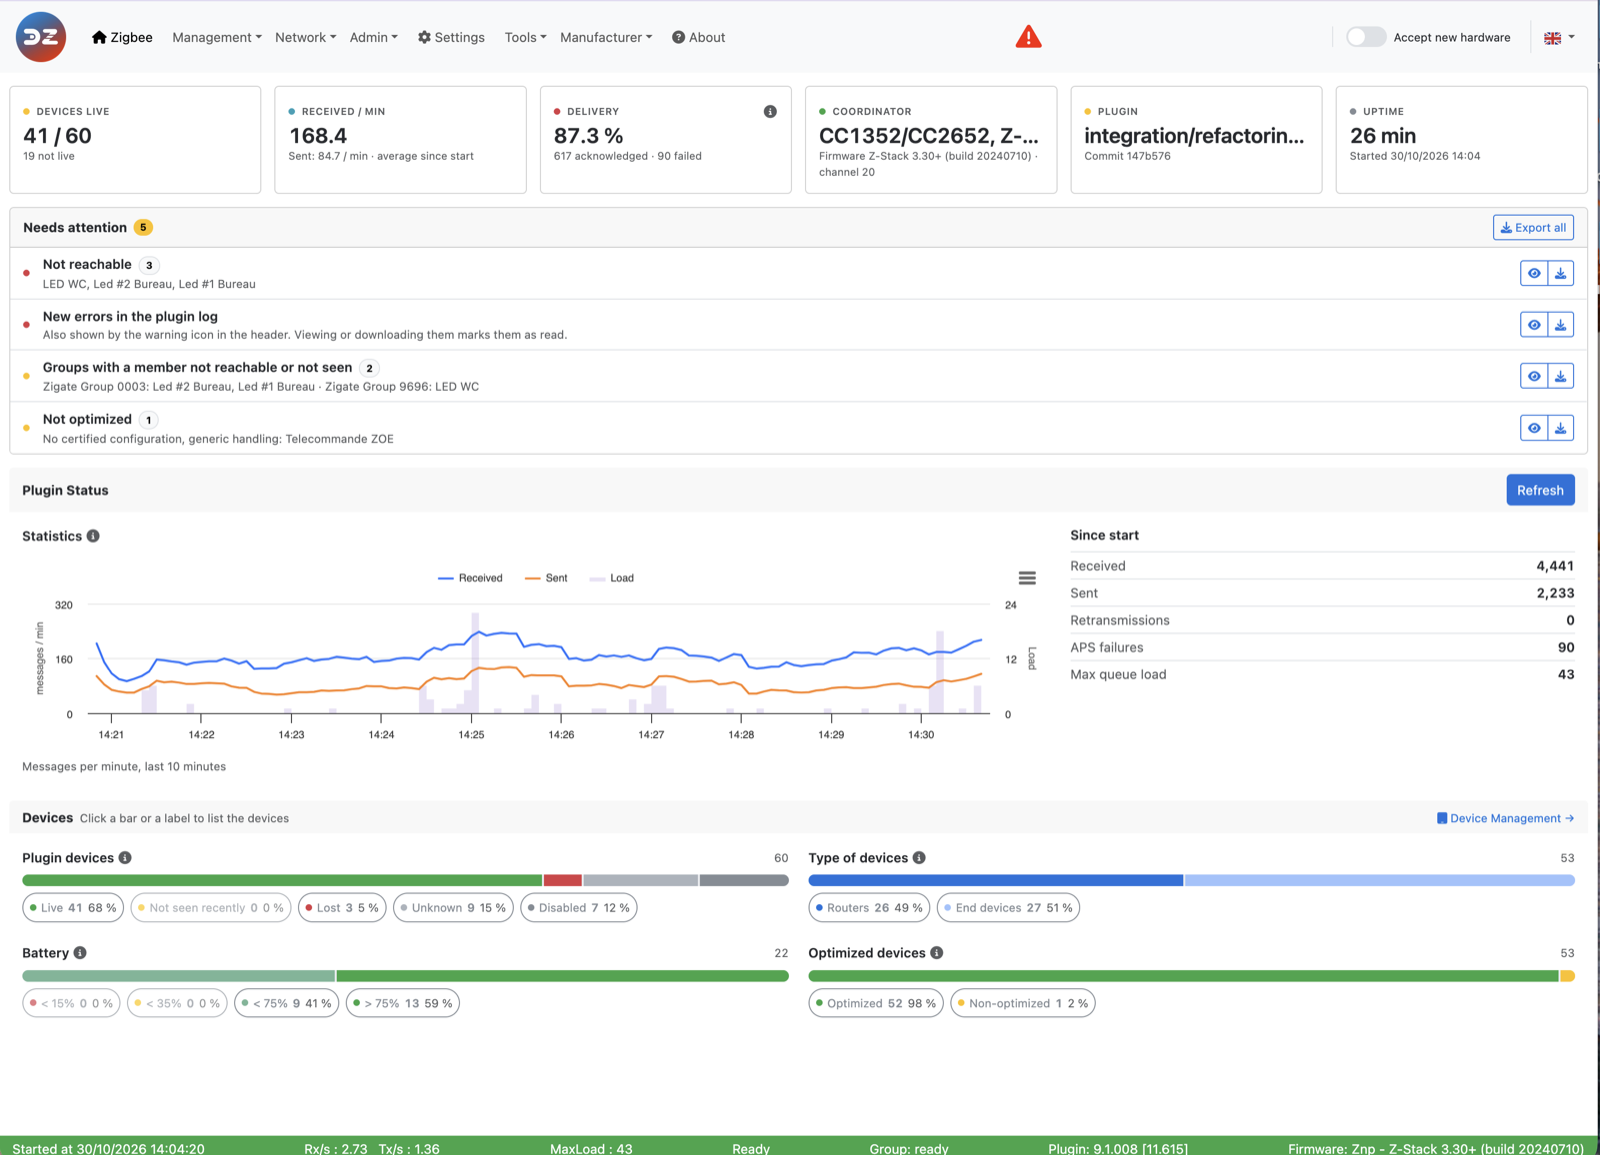
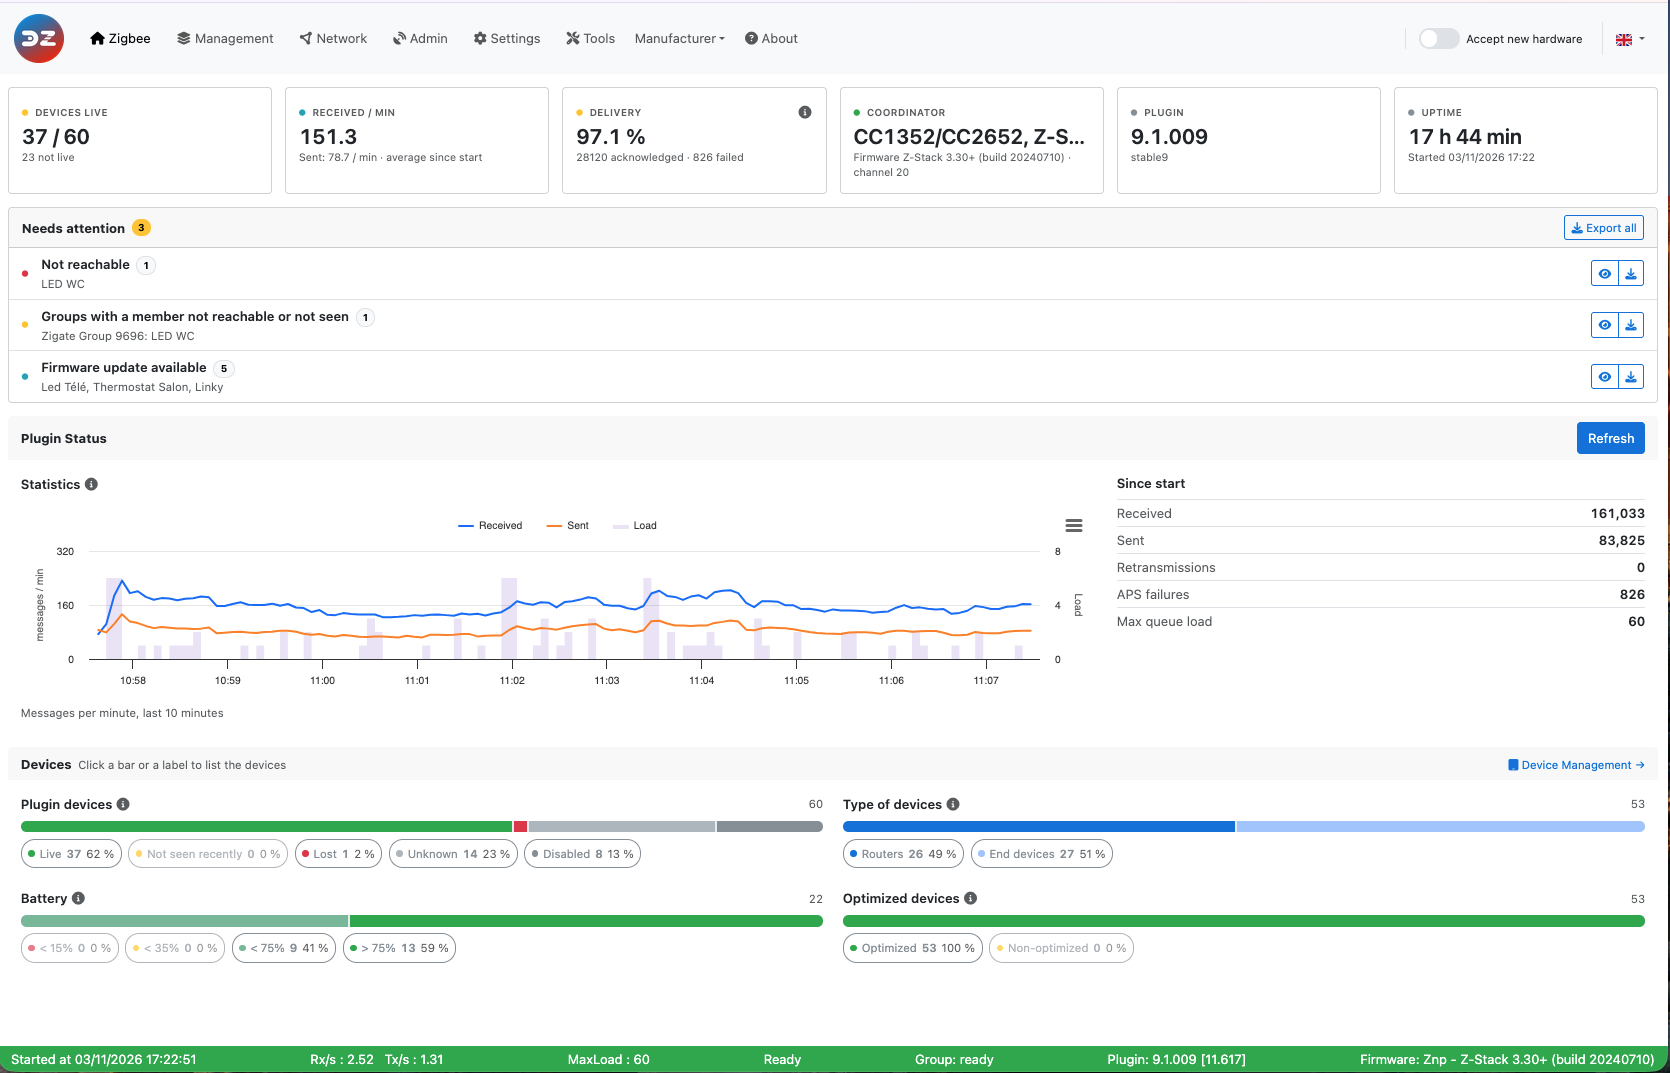
WebUI: refresh the Dashboard screenshot, share it with General presentation
EN_WebUI-Dashboard.png came from an integration branch, with 9.1.008 in the
footer and the former drop-down menus. Replace it with the released 9.1.009
capture, which also updates WebUI_Dashboard and Plugin_Configuration, and
point General presentation at it rather than keeping a second copy.

Claude-Session: https://claude.ai/code/session_017BKZpJCV7p27mtrum5UNHv

diff --git a/en-eng/WebUI_General-presentation.md b/en-eng/WebUI_General-presentation.md
@@ -4,7 +4,7 @@ The plugin includes a built-in web interface accessible from your browser. It pr
 
 It opens on the [Dashboard](WebUI_Dashboard.md), below the menu bar that is shown on every page:
 
-![The web interface, on the Dashboard page](Images/EN_WebUI-General-Presentation.png)
+![The web interface, on the Dashboard page](Images/EN_WebUI-Dashboard.png)
 
 ## Accessing the Web Interface
 
